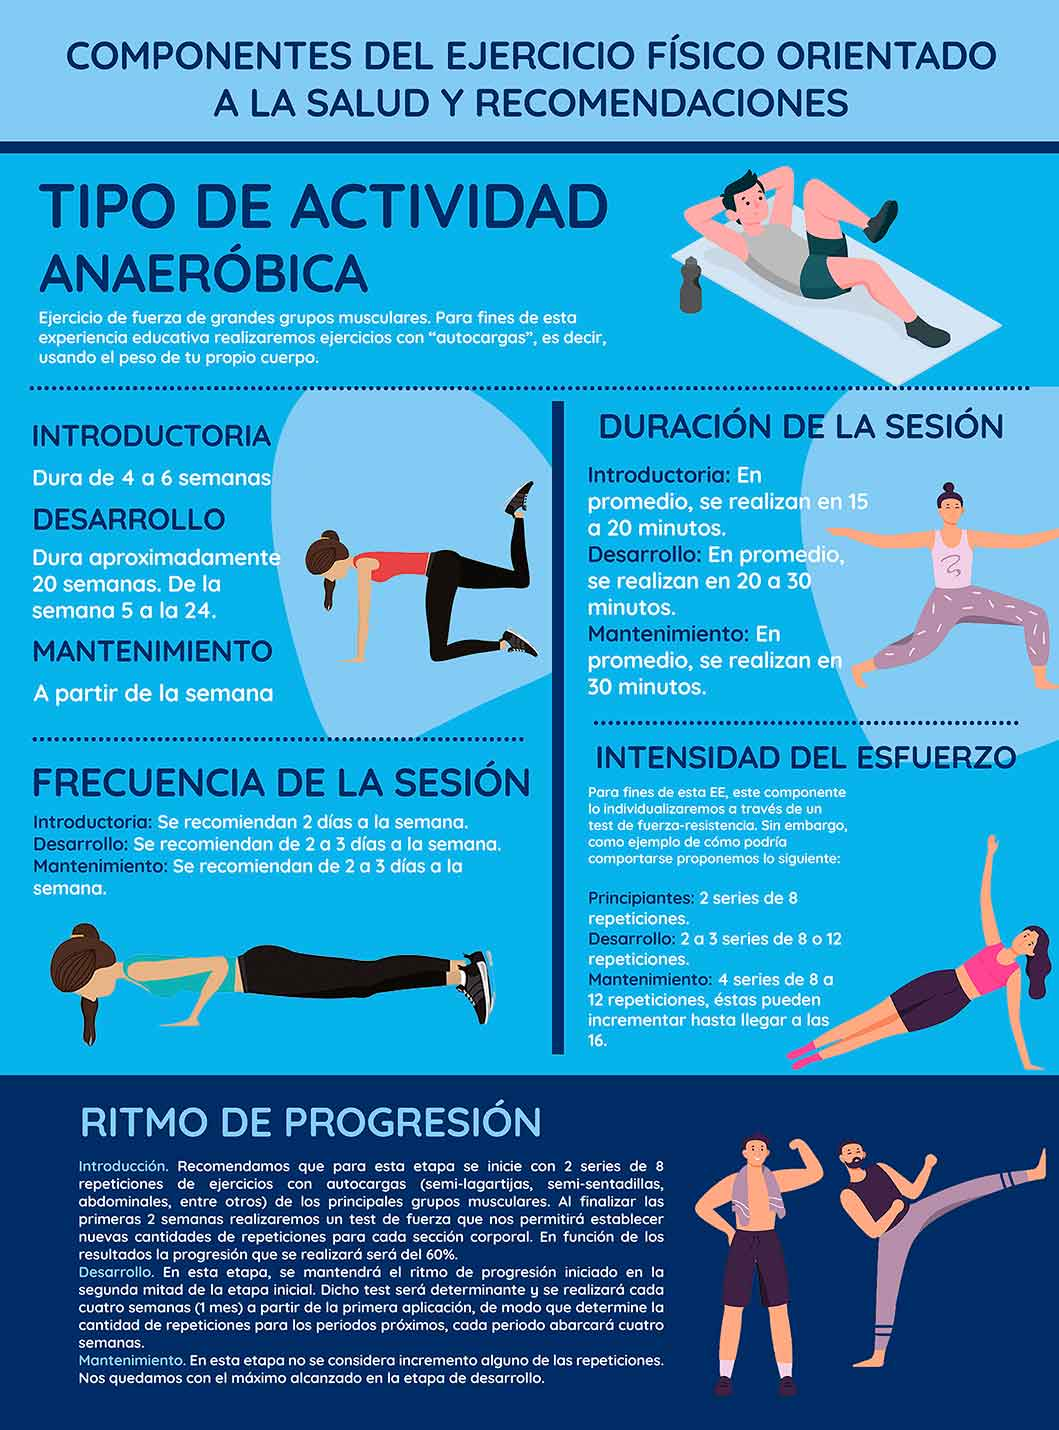
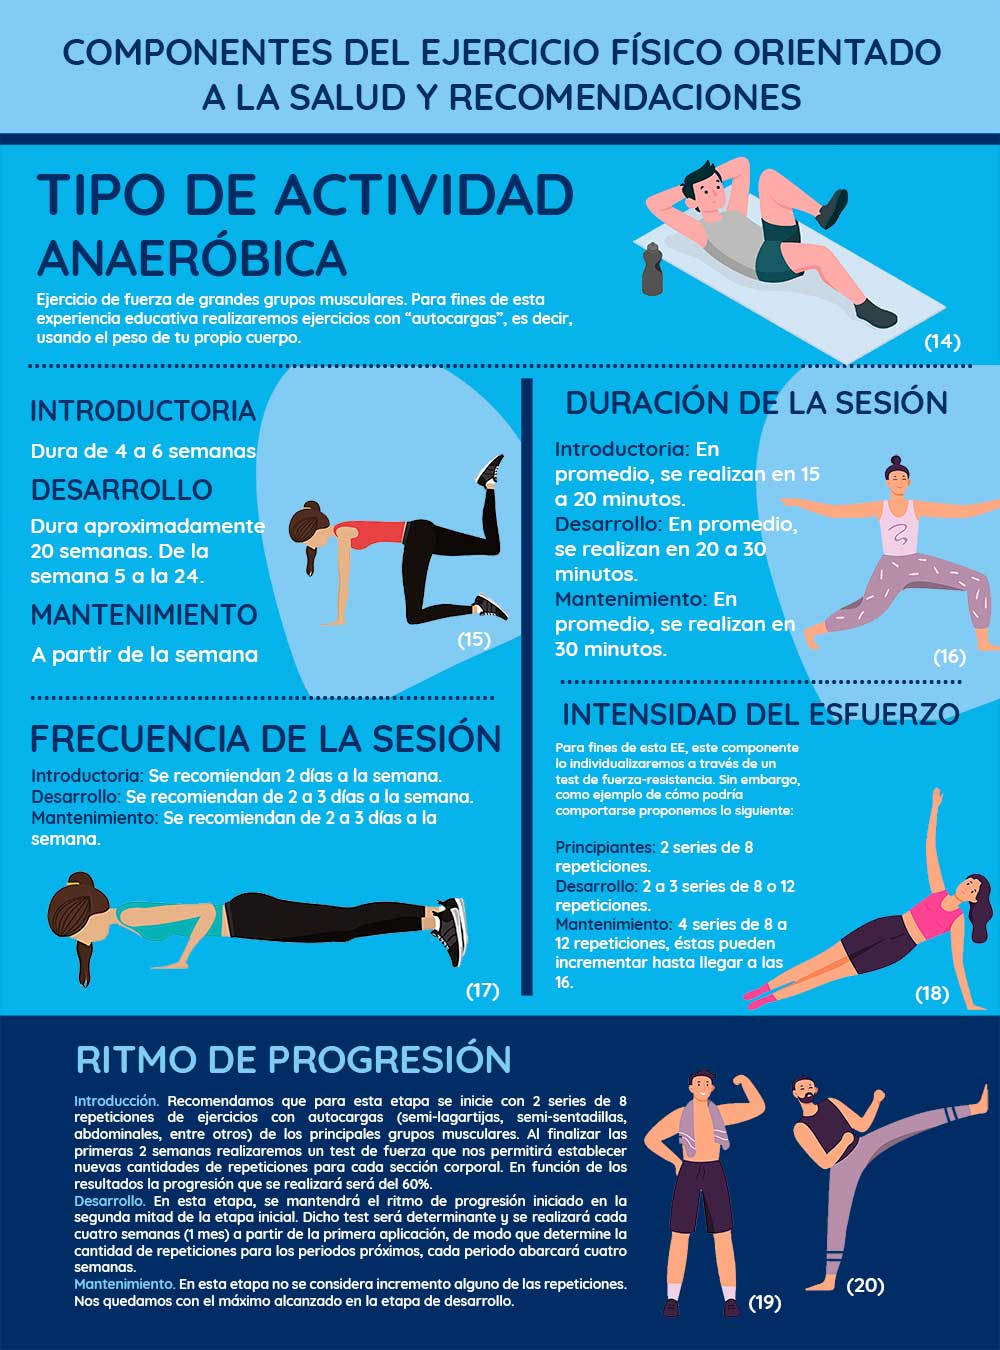
Imágenes EFCS

diff --git a/EFCS/modulo1.html b/EFCS/modulo1.html
@@ -979,7 +979,7 @@ Se continúa con la comprensión de los principios que rigen los programas de ej
 			<div class="col">
 				<a href="#" data-toggle="modal" class="text-white enlace" data-target="#modal-info-fuerza">
 					<figure class="figure">
-						<img class="img-fluid" src="images/modulo1/Infografía-Act-Ritmo.jpg" alt="" />
+						<img class="img-fluid" src="images/modulo1/Info_Trabajo_de_Fuerza.jpg" alt="" />
 						<figcaption class="figure-caption text-white text-right">[27]</figcaption>
 					</figure>
 				</a>
@@ -1375,7 +1375,7 @@ Se continúa con la comprensión de los principios que rigen los programas de ej
           </div>
           <div class="modal-body">
             <figure class="figure">
-                <img class="img-fluid" src="images/en-construccion.png" alt="" />
+                <img class="img-fluid" src="images/modulo1/Info_Trabajo_de_Fuerza.jpg" alt="" />
             </figure>
           </div>
           <div class="modal-footer">
